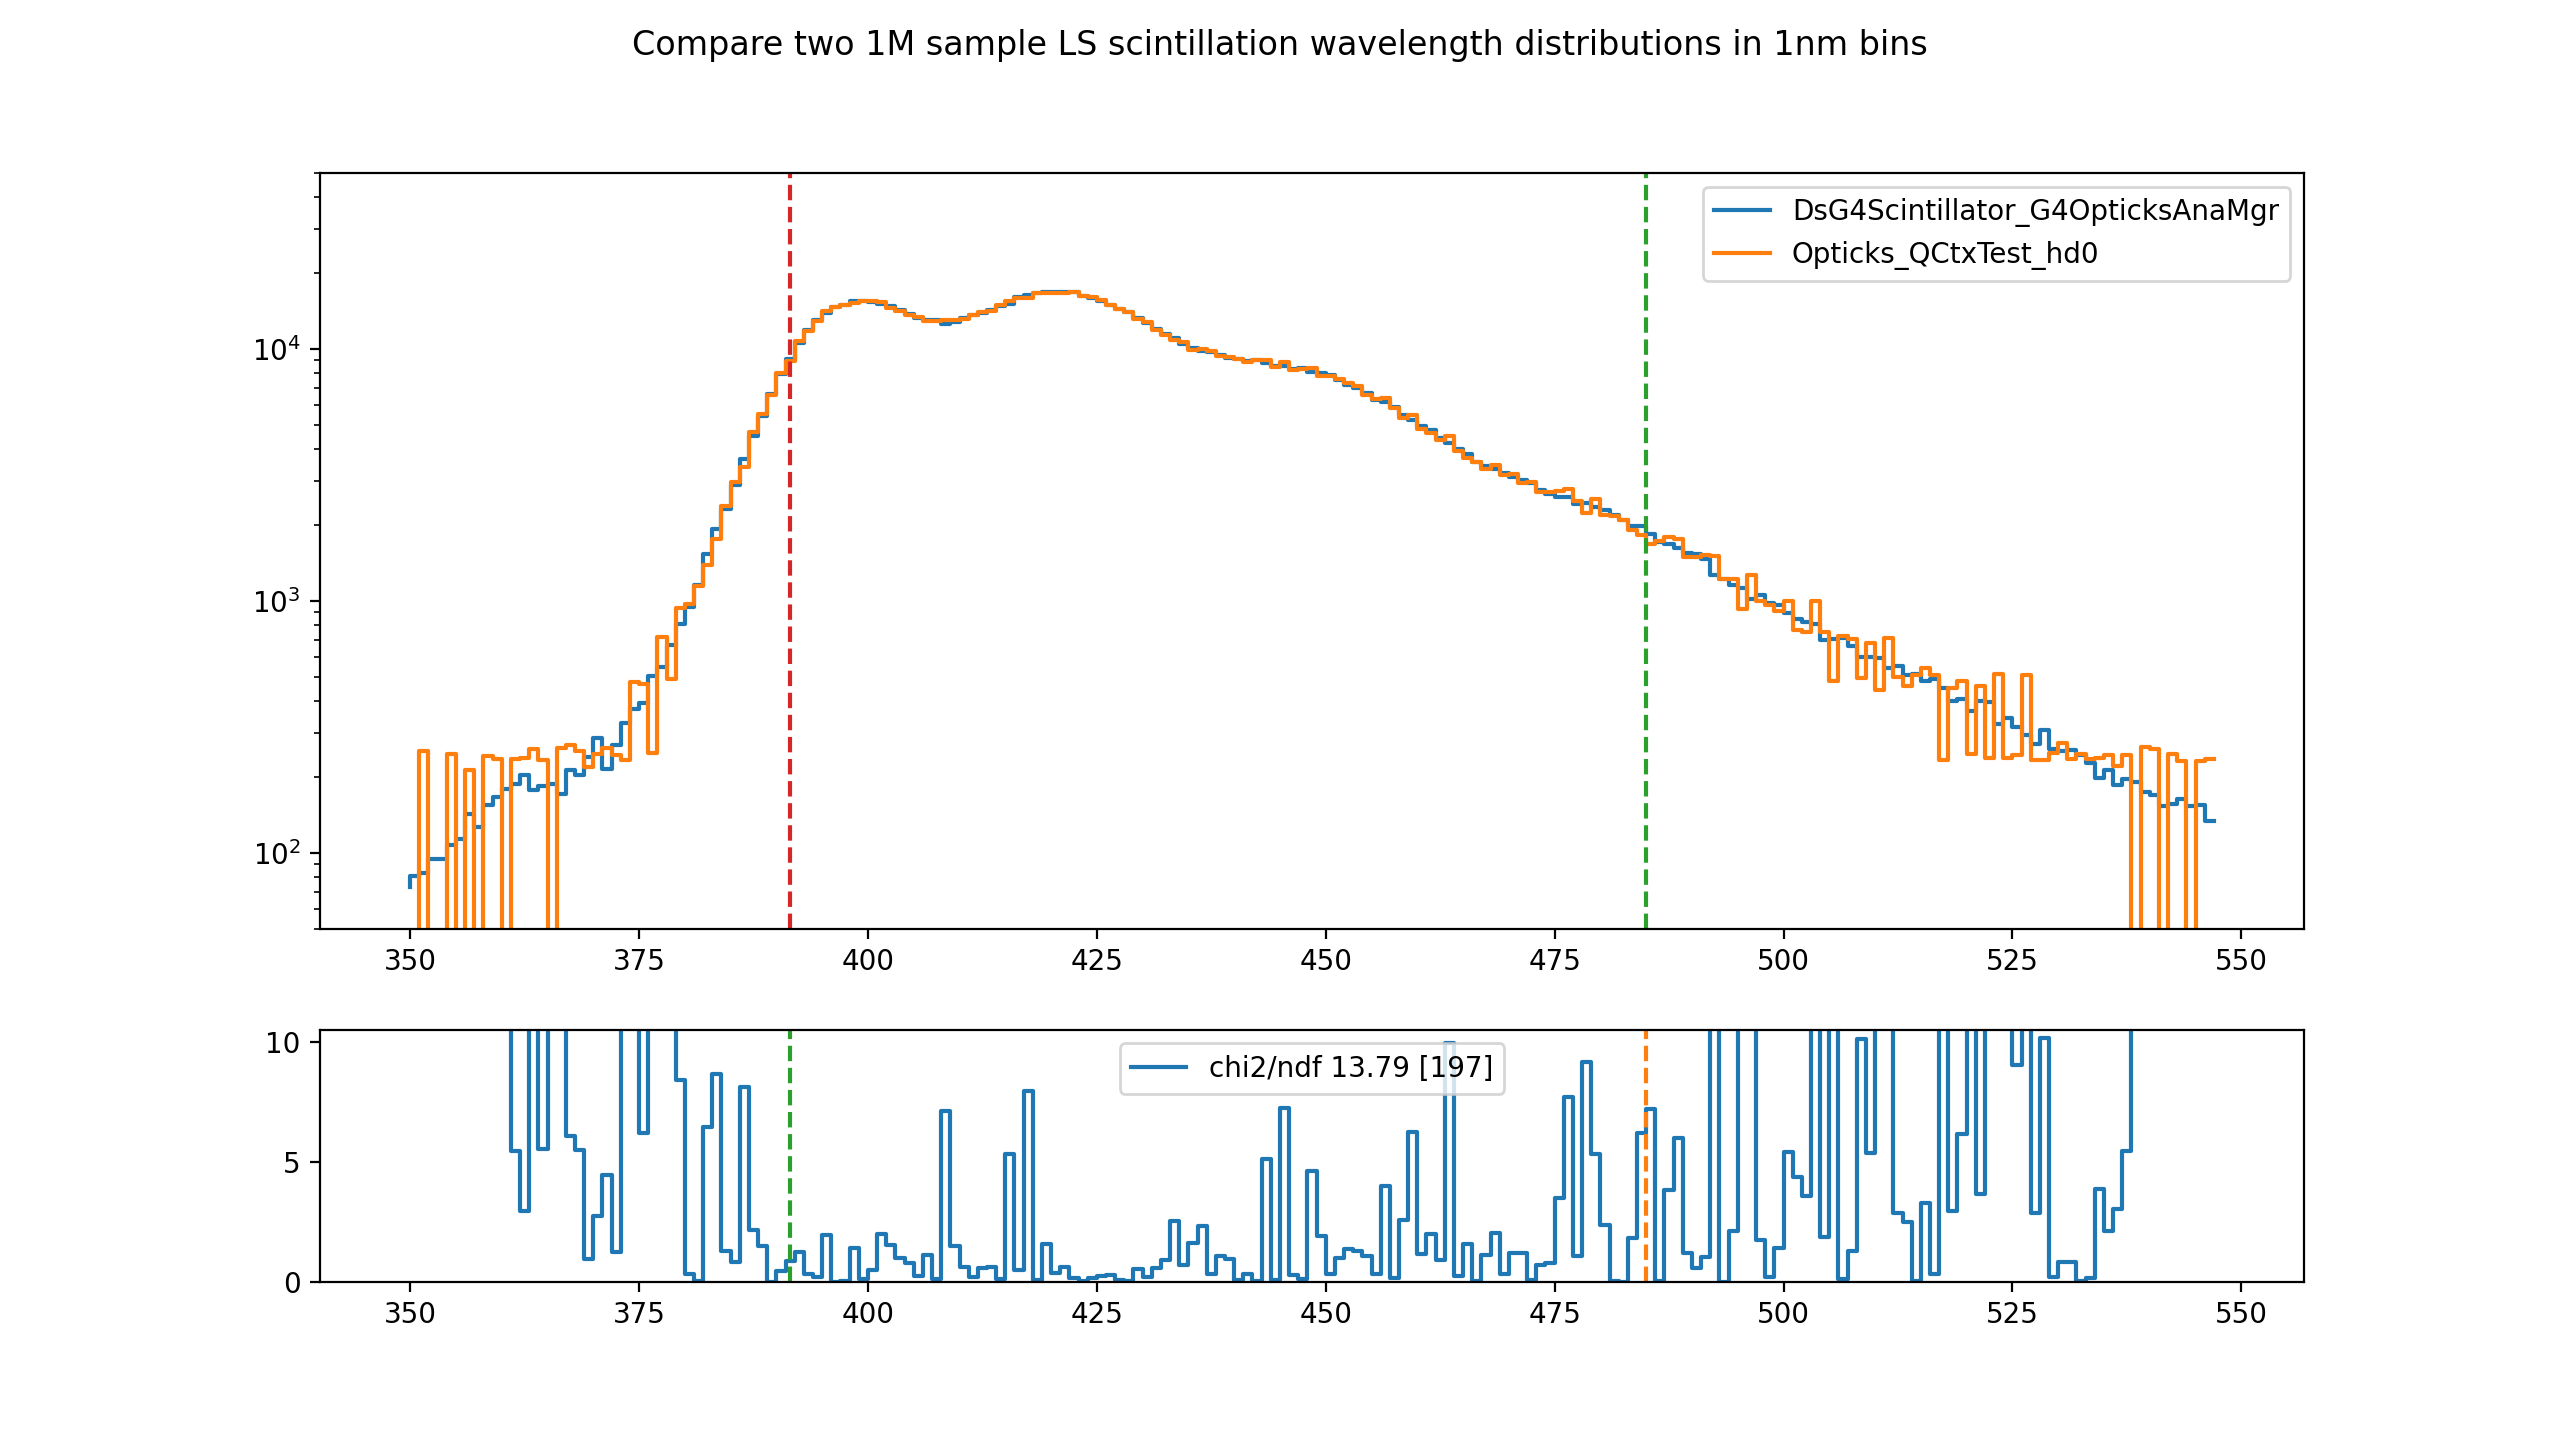
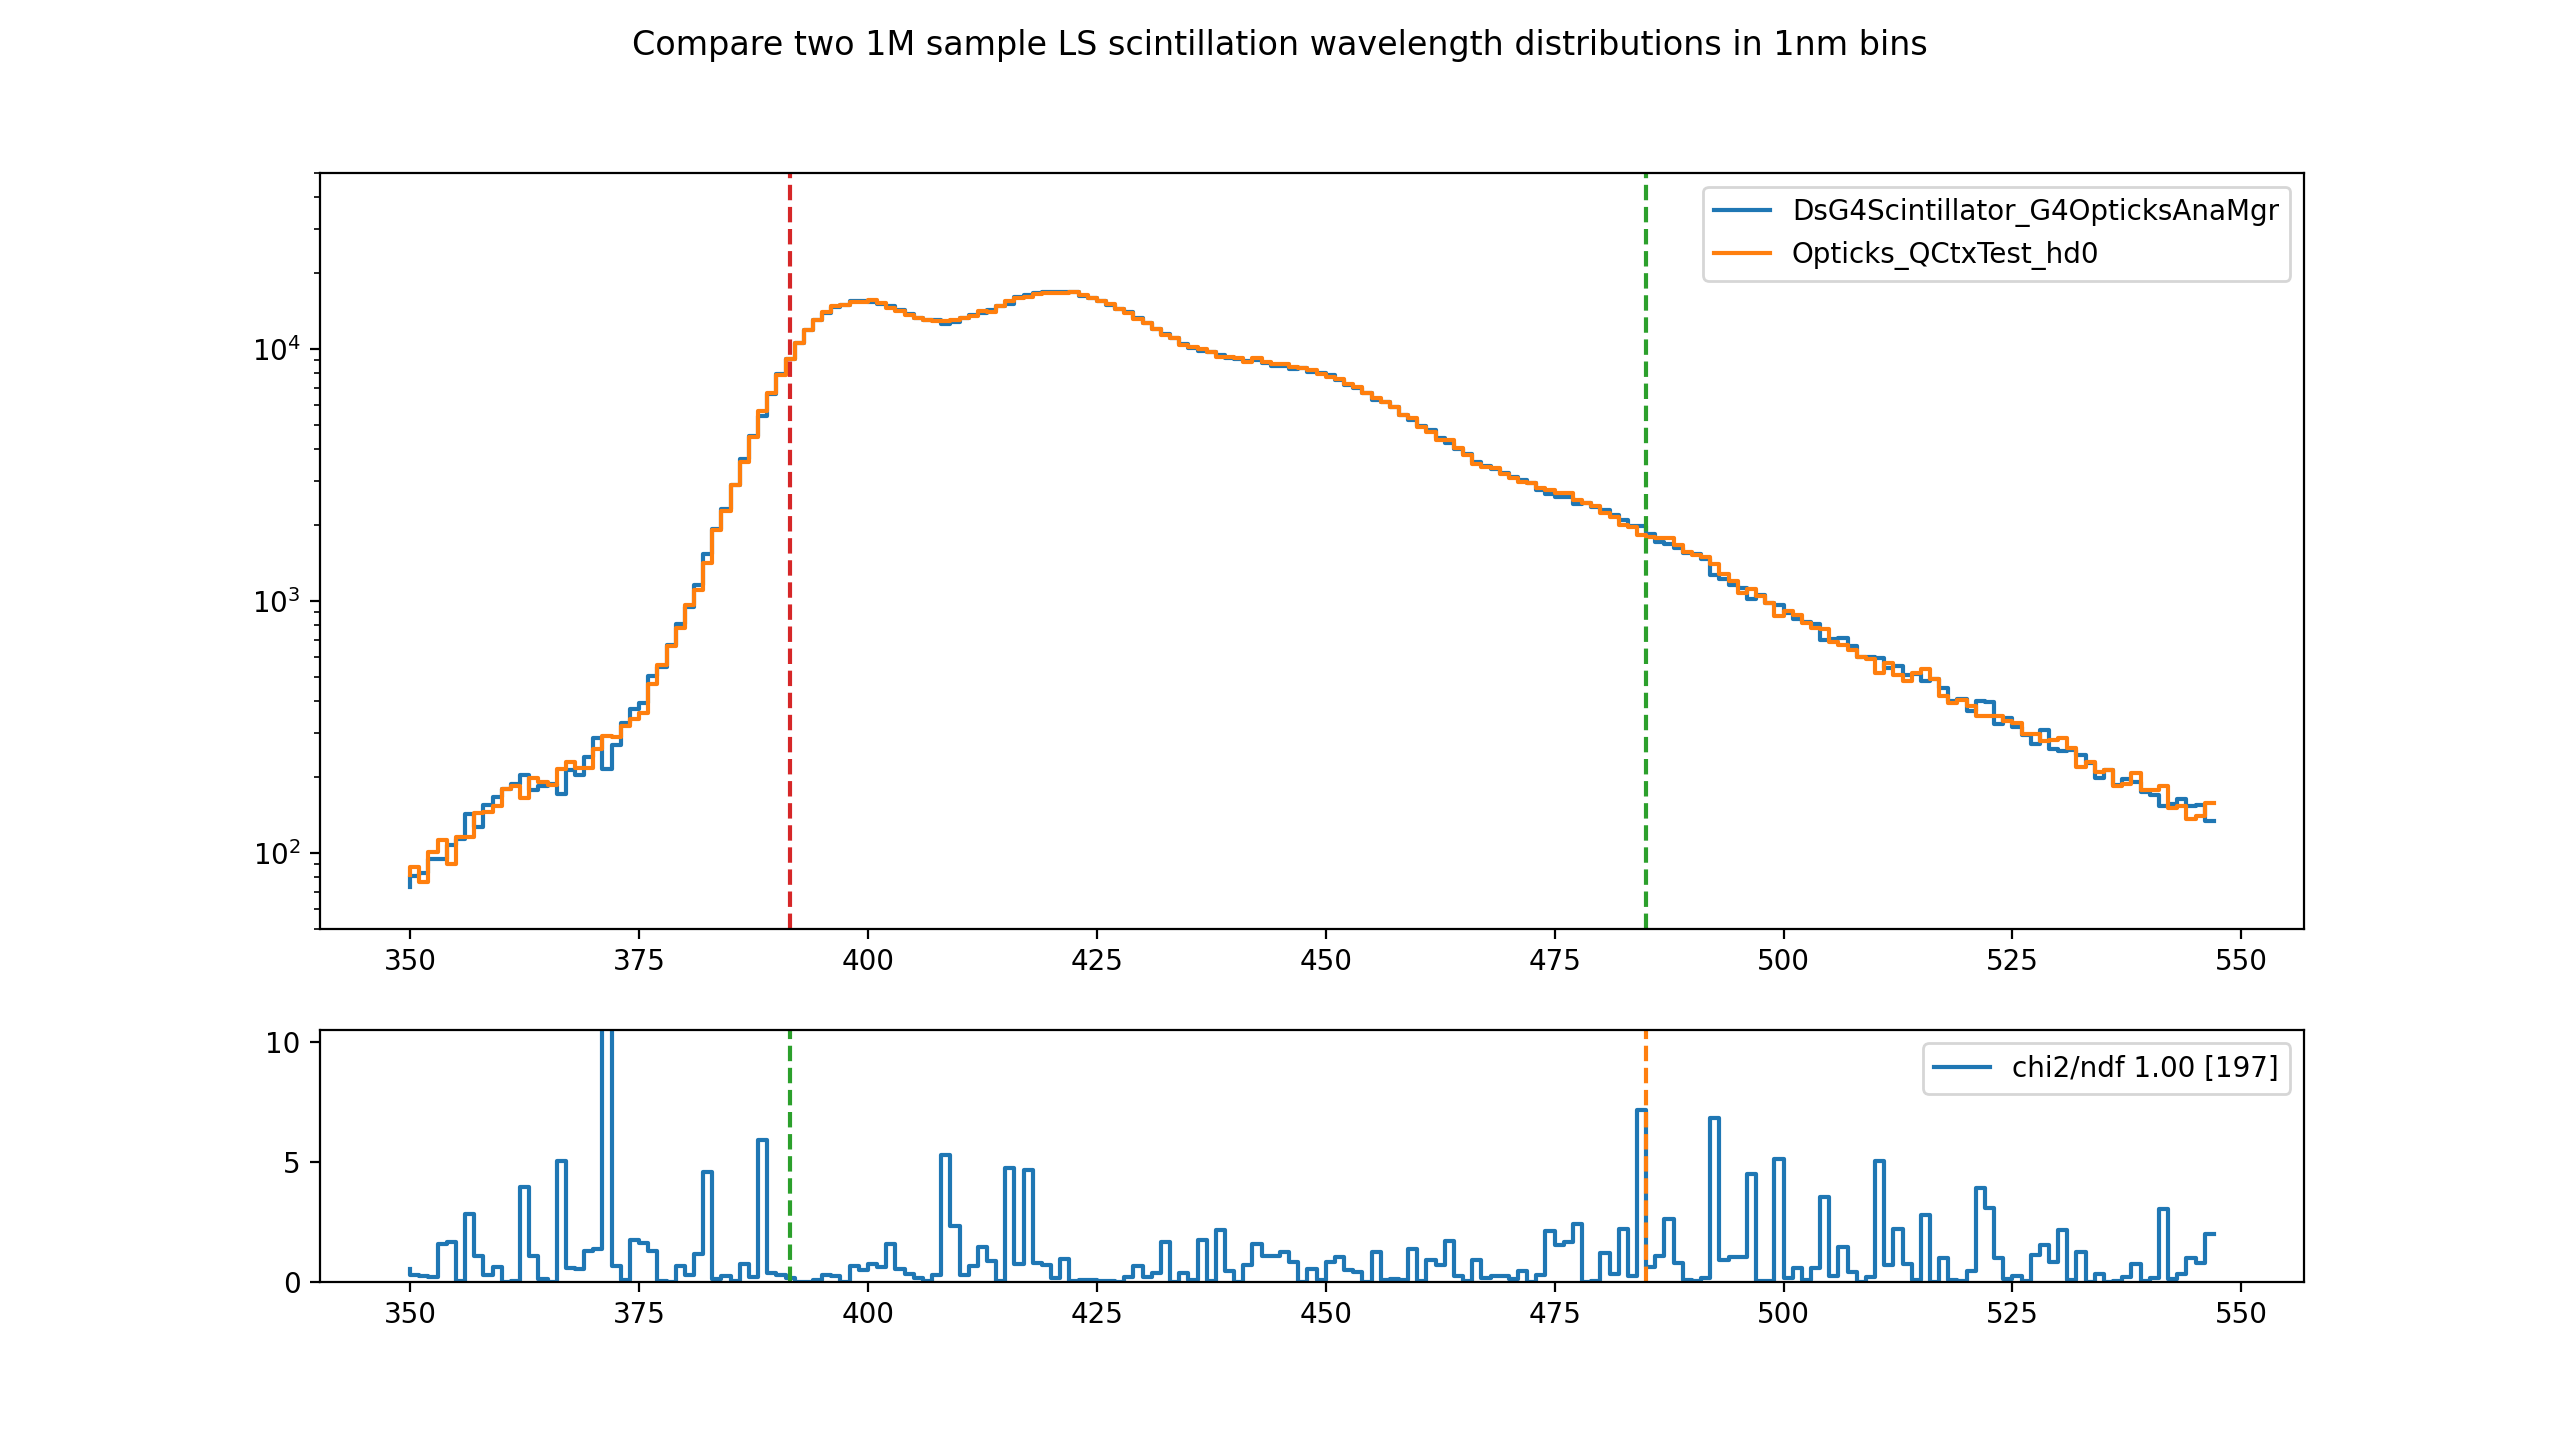
add versions of the wavelength_cfplot with GPU interpolation switched off

diff --git a/env/presentation/juno_opticks_20210712.html b/env/presentation/juno_opticks_20210712.html
@@ -2167,8 +2167,20 @@ Processed by unicode2rstsubs.py, part of Docutils:
              background-position: 0px 0px;
              
           }
+          div.slide#m-wavelength-sample-comparison-hd0-no-interpolation{
+             background-image: url(/env/presentation/ana/wavelength_cfplot/DsG4Scintillator_G4OpticksAnaMgr_Opticks_QCtxTest_hd0_cudaFilterModePoint.png);
+             background-size: 1280px 720px;
+             background-position: 0px 0px;
+             
+          }
           div.slide#m-wavelength-sample-comparison-hd20{
              background-image: url(/env/presentation/ana/wavelength_cfplot/DsG4Scintillator_G4OpticksAnaMgr_Opticks_QCtxTest_hd20.png);
+             background-size: 1280px 720px;
+             background-position: 0px 0px;
+             
+          }
+          div.slide#m-wavelength-sample-comparison-hd20-no-interpolation{
+             background-image: url(/env/presentation/ana/wavelength_cfplot/DsG4Scintillator_G4OpticksAnaMgr_Opticks_QCtxTest_hd20_cudaFilterModePoint.png);
              background-size: 1280px 720px;
              background-position: 0px 0px;
              
@@ -2777,8 +2789,14 @@ ana/wavelength_plt.py -->
 <div class="slide" id="m-wavelength-sample-comparison-hd0">
 <h1><span class="i">1M Wavelength Sample comparison hd0</span></h1>
 </div>
+<div class="slide" id="m-wavelength-sample-comparison-hd0-no-interpolation">
+<h1><span class="i">1M Wavelength Sample comparison hd0 no interpolation</span></h1>
+</div>
 <div class="slide" id="m-wavelength-sample-comparison-hd20">
 <h1><span class="i">1M Wavelength Sample comparison hd20</span></h1>
+</div>
+<div class="slide" id="m-wavelength-sample-comparison-hd20-no-interpolation">
+<h1><span class="i">1M Wavelength Sample comparison hd20 no interpolation</span></h1>
 </div>
 <div class="slide" id="gscintillatorlib-icdf">
 <h1><span class="i">GScintillatorLib ICDF</span></h1>
